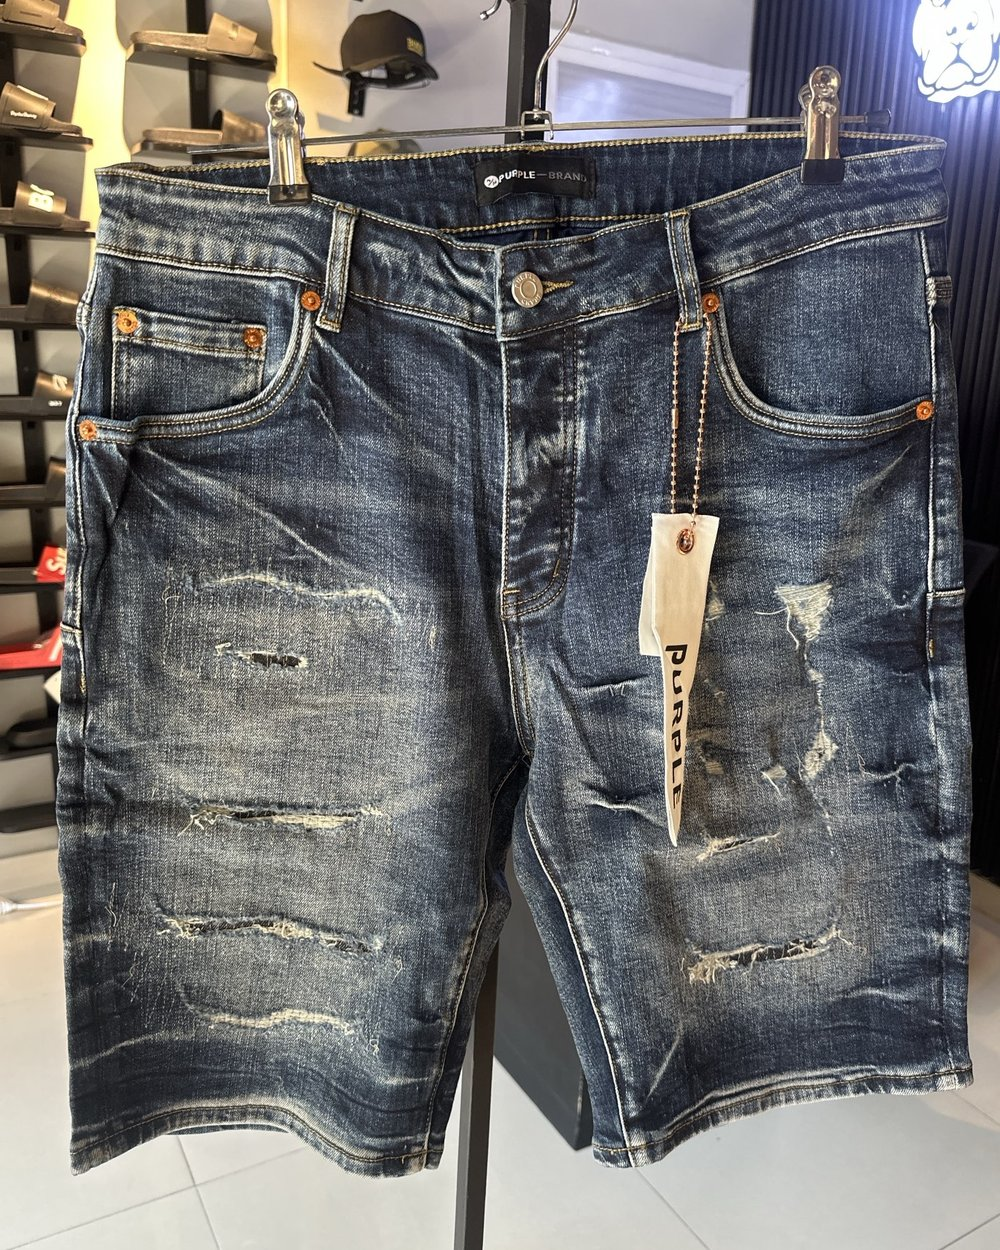
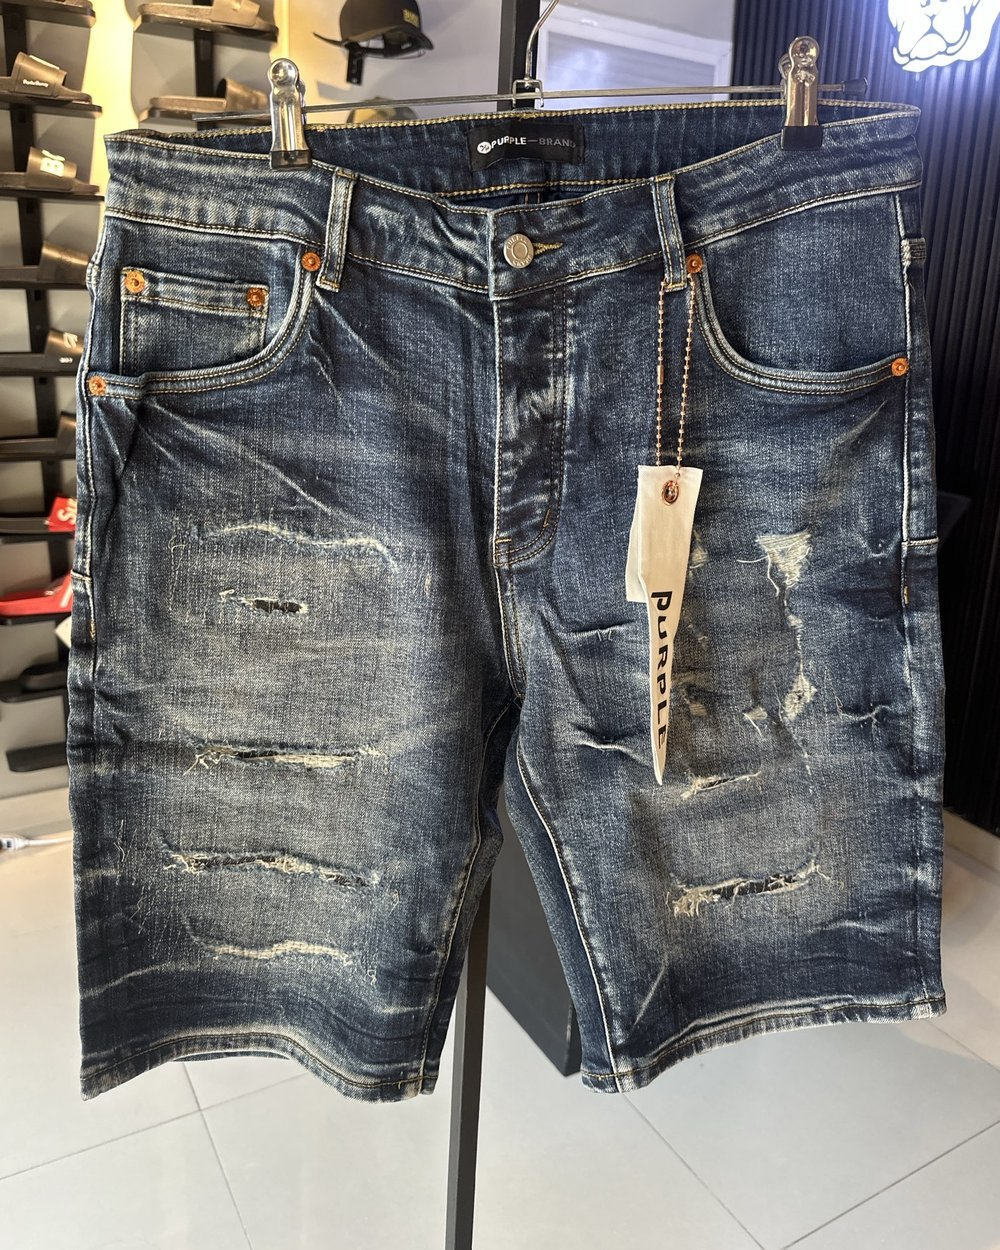
Fotos de bermudas encuadradas igual: mismo tamaño y centradas
Claude-Session: https://claude.ai/code/session_01NrfLtFEjF8amh4Rnuacygp

diff --git a/_herramientas/encuadrar.py b/_herramientas/encuadrar.py
@@ -1,0 +1,40 @@
+"""Encuadra una foto de producto: detecta la prenda (tela de color) y la deja siempre del mismo tamaño y centrada.
+Uso: python3 _herramientas/encuadrar.py ORIGEN DESTINO x0,y0,x1,y1 [alto_prenda=0.80] [debug.jpg]
+La caja x0,y0,x1,y1 es la prenda en píxeles de la foto original (de la pretina al ruedo, sin el gancho).
+La detección automática por color existe pero falla con fondos azules o tela clara: es mejor pasar la caja."""
+import sys, cv2, numpy as np
+from PIL import Image, ImageOps
+def caja_prenda(rgb):
+    h,w=rgb.shape[:2];s=600/max(h,w)
+    sm=cv2.resize(rgb,None,fx=s,fy=s,interpolation=cv2.INTER_AREA)
+    hsv=cv2.cvtColor(sm,cv2.COLOR_RGB2HSV)
+    H,S,V=hsv[...,0].astype(int),hsv[...,1].astype(int),hsv[...,2].astype(int)
+    m=((H>=90)&(H<=130)&(S>=35)&(V>=45)).astype(np.uint8)          # tela azul (jean)
+    m=cv2.morphologyEx(m,cv2.MORPH_CLOSE,np.ones((9,9),np.uint8))
+    m=cv2.morphologyEx(m,cv2.MORPH_OPEN,np.ones((5,5),np.uint8))
+    n,lab,st,_=cv2.connectedComponentsWithStats(m)
+    k=1+np.argmax(st[1:,cv2.CC_STAT_AREA]);x,y,bw,bh=st[k][:4]
+    return np.array([x,y,x+bw,y+bh])/s
+def encuadrar(src,dst,alto=0.80,cw=1000,ch=1250,debug=None,caja=None):
+    im=ImageOps.exif_transpose(Image.open(src)).convert('RGB');rgb=np.array(im)
+    x0,y0,x1,y1=caja if caja else caja_prenda(rgb)
+    gw,gh=x1-x0,y1-y0
+    sc=min(ch*alto/gh,cw*0.88/gw)
+    cx,cy=(x0+x1)/2,(y0+y1)/2
+    W,H=cw/sc,ch/sc
+    left,top=cx-W/2,cy-H/2+H*0.015
+    # si la ventana se sale de la foto, rellenar con bordes estirados y desenfocados
+    pad=int(max(0,-left,-top,left+W-rgb.shape[1],top+H-rgb.shape[0]))+2
+    if pad>2:
+        big=cv2.copyMakeBorder(rgb,pad,pad,pad,pad,cv2.BORDER_REPLICATE)
+        blur=cv2.GaussianBlur(big,(0,0),25);mask=np.zeros(big.shape[:2],np.float32);mask[pad:-pad,pad:-pad]=1
+        mask=cv2.GaussianBlur(mask,(0,0),8)[...,None];rgb=(big*mask+blur*(1-mask)).astype(np.uint8);left+=pad;top+=pad
+    crop=Image.fromarray(rgb).crop((int(left),int(top),int(left+W),int(top+H))).resize((cw,ch),Image.LANCZOS)
+    crop.save(dst,quality=85,optimize=True,progressive=True)
+    if debug:
+        d=rgb.copy();cv2.rectangle(d,(int(x0+(pad if pad>2 else 0)),int(y0+(pad if pad>2 else 0))),(int(x1+(pad if pad>2 else 0)),int(y1+(pad if pad>2 else 0))),(255,0,0),8)
+        Image.fromarray(d).resize((d.shape[1]//5,d.shape[0]//5)).save(debug)
+    return (x0,y0,x1,y1)
+if __name__=='__main__':
+    a=sys.argv;caja=[float(v) for v in a[3].split(',')]
+    print(encuadrar(a[1],a[2],float(a[4]) if len(a)>4 else 0.80,debug=a[5] if len(a)>5 else None,caja=caja))

diff --git a/.claude/CLAUDE.md b/.claude/CLAUDE.md
@@ -5,3 +5,4 @@
 - **Cada vez que se agregue, cambie o quite un producto**, ejecutar `node _herramientas/generar-paginas.js` para regenerar `p/<id>.html`. Esas páginas son las que muestran la foto, el nombre y el precio como vista previa en el mensaje de pedido de WhatsApp.
 - El número de WhatsApp de la tienda está en la constante `WHATSAPP` (formato 57 + celular).
 - Probar en celular y computador antes de publicar.
+- Fotos de producto: encuadrarlas con `python3 _herramientas/encuadrar.py ORIGEN fotos/productos/NOMBRE.jpg x0,y0,x1,y1` (caja de la prenda de la pretina al ruedo, sin gancho, en píxeles de la foto original). Así todas quedan del mismo tamaño y centradas (1000×1250, prenda al 80 % del alto). La usuaria prefiere fotos con el fondo del local, sin quitar fondo.
